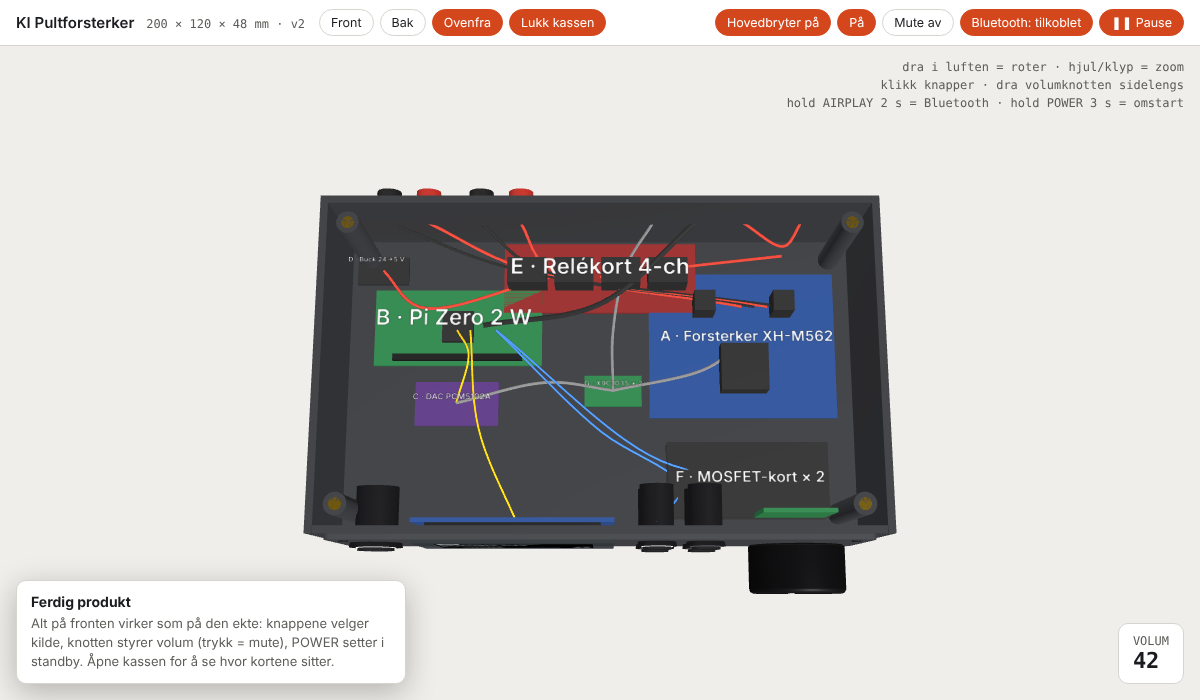
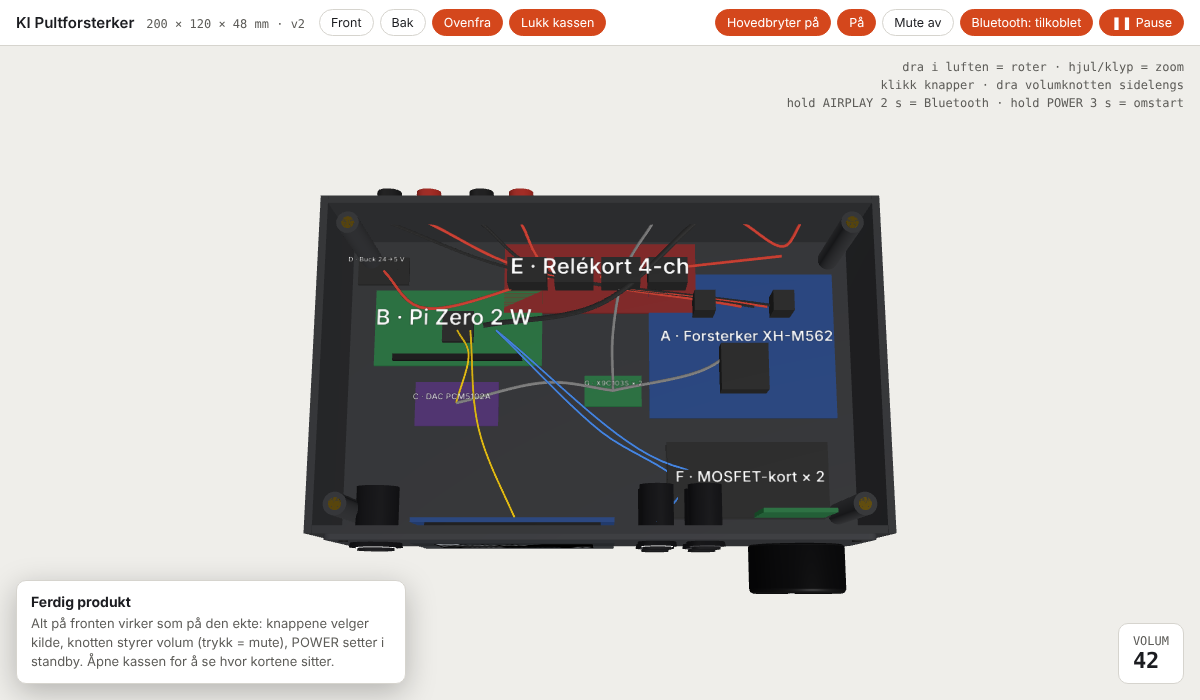
3D-visning: mykere lys, antrasitt som i designrenderen
Claude-Session: https://claude.ai/code/session_01FaJKmYinw8SWRobKXBRYpt

diff --git a/3d-visning/index.html b/3d-visning/index.html
@@ -43,9 +43,9 @@ canvas{display:block;width:100%;height:100%;touch-action:none}
 const stage=document.getElementById('stage'), $=id=>document.getElementById(id);
 const renderer=new THREE.WebGLRenderer({antialias:true,alpha:true});renderer.setPixelRatio(Math.min(devicePixelRatio,2));renderer.outputEncoding=THREE.sRGBEncoding;stage.prepend(renderer.domElement);
 const scene=new THREE.Scene(), cam=new THREE.PerspectiveCamera(32,1,1,3000);
-scene.add(new THREE.HemisphereLight(0xffffff,0x3a3a3e,1.0));
-const key=new THREE.DirectionalLight(0xffffff,1.1);key.position.set(120,220,200);scene.add(key);
-const fill=new THREE.DirectionalLight(0xffffff,0.35);fill.position.set(-150,80,-220);scene.add(fill);
+scene.add(new THREE.HemisphereLight(0xffffff,0x26272a,0.55));
+const key=new THREE.DirectionalLight(0xffffff,0.75);key.position.set(120,220,200);scene.add(key);
+const fill=new THREE.DirectionalLight(0xffffff,0.25);fill.position.set(-150,80,-220);scene.add(fill);
 const std=(c,r=0.7,m=0.1,extra={})=>{const mt=new THREE.MeshStandardMaterial(Object.assign({color:c,roughness:r,metalness:m},extra));mt.color.convertSRGBToLinear();return mt;};
 const M={shell:std(0x2c2d30,0.75,0.1),plate:std(0x37383c,0.6,0.2),btn:std(0x1d1d20,0.28,0.45),cap:std(0x252528,0.35,0.4),
  acrylic:new THREE.MeshPhysicalMaterial({color:0x060708,roughness:0.12,metalness:0,opacity:0.92,transparent:true}),
